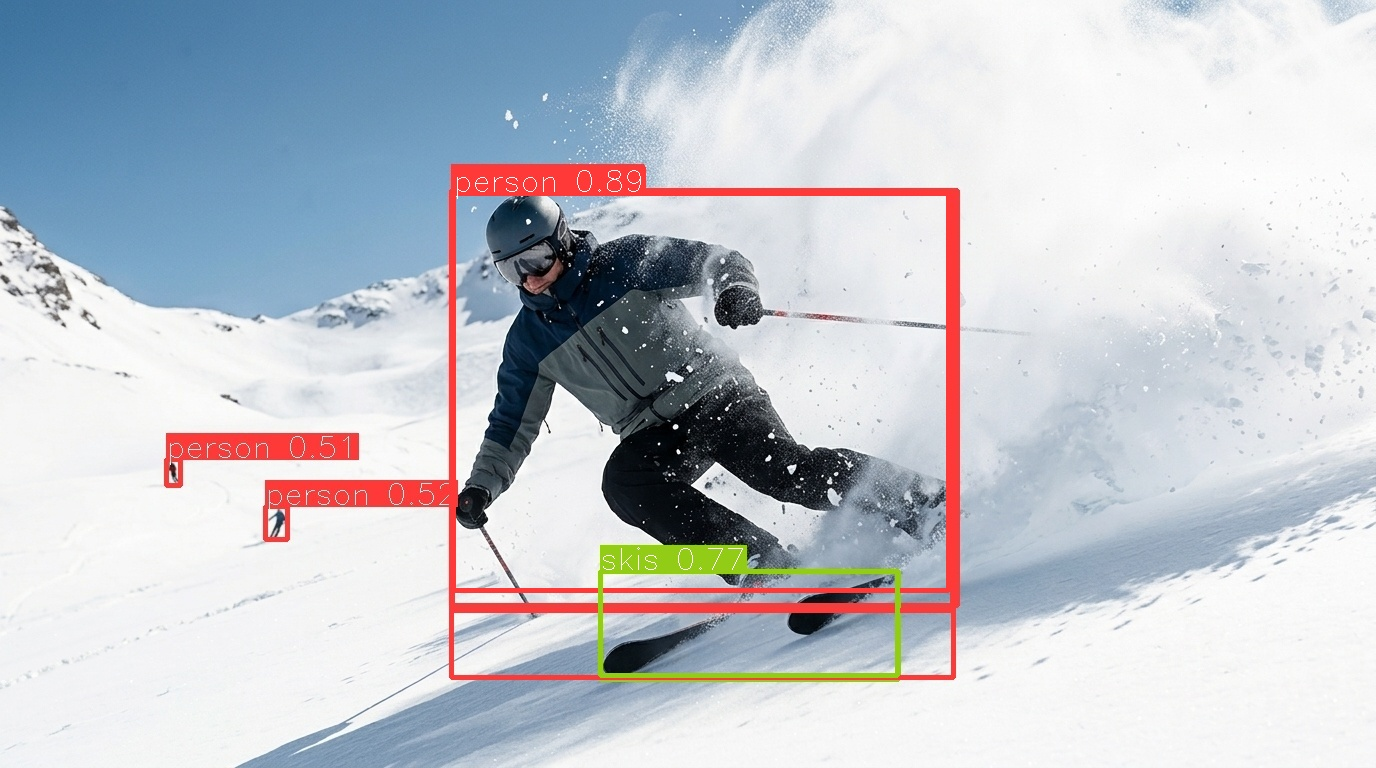
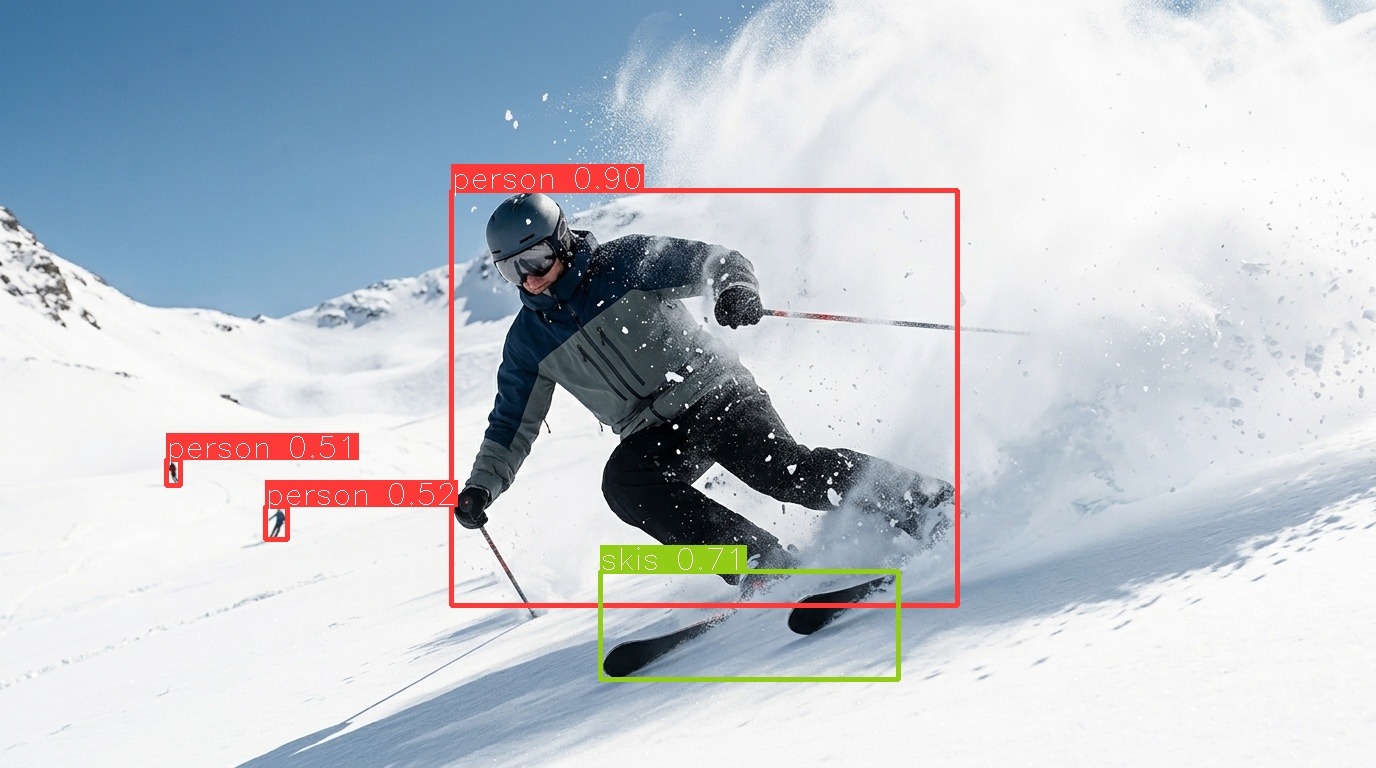
docs: single-box skier demo and drop the "not on PyPI yet" notices
- Use the model1m skier render with one person box; the previous one
  drew two overlapping boxes on the skier.
- nitid installs from PyPI: remove the GitHub-install notices from the
  README and the quickstart, and install from PyPI in the Colab setup
  cells of both notebooks. The CUDA/OpenVINO guide still works from a
  clone of the private repository.

diff --git a/docs/training_cuda_openvino.md b/docs/training_cuda_openvino.md
@@ -34,11 +34,10 @@ such a model.
 
 ## Before you start
 
-**Repository access.** nitid is not on PyPI yet and the repository is private,
-so you install it from a git clone. The machine needs read access to
-`Nitidio/nitid` on GitHub, either through an SSH key added to your GitHub
-account or through the GitHub CLI (`gh auth login`). Once v0.9.1 is published,
-`pip install "nitid[train]"` will replace the clone.
+**Repository access.** This guide works from a git clone of the repository,
+which is private. The machine needs read access to `Nitidio/nitid` on GitHub,
+either through an SSH key added to your GitHub account or through the GitHub
+CLI (`gh auth login`).
 
 While the repository is private, its release files cannot be downloaded
 anonymously, so the automatic dataset download in step 2 fails with

diff --git a/README.md b/README.md
@@ -82,10 +82,6 @@ Requires Python 3.10, 3.11 or 3.12.
 pip install nitid
 ```
 
-> nitid is not on PyPI yet — the first release, v0.9.1, is being prepared.
-> Until it lands, install straight from GitHub:
-> `pip install "nitid @ git+https://github.com/Nitidio/nitid.git"`
-
 Inference and export work out of the box. Other features are optional extras:
 
 | Extra             | Adds                                                     |

diff --git a/docs/quickstart.md b/docs/quickstart.md
@@ -10,9 +10,6 @@ for users coming from a YOLO codebase.
 pip install "nitid[train]"
 ```
 
-Until v0.9.1 is published on PyPI, install from GitHub instead:
-`pip install "nitid[train] @ git+https://github.com/Nitidio/nitid.git"`.
-
 Add extras only when you need them:
 
 ```bash
